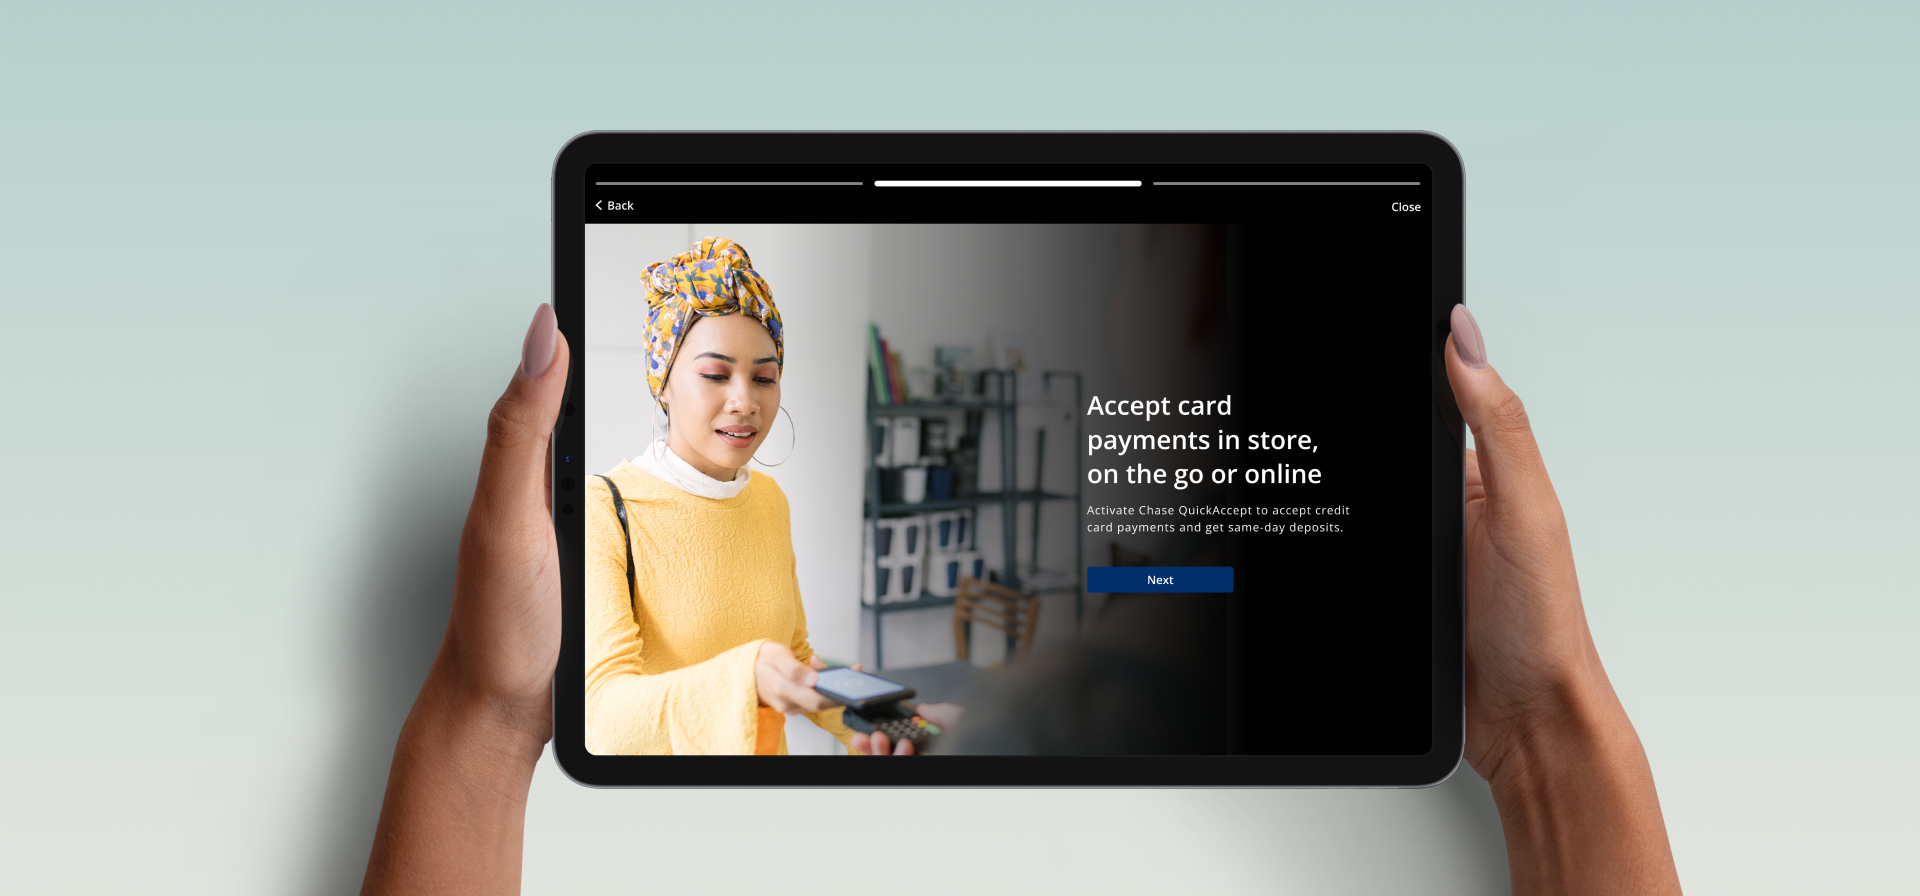
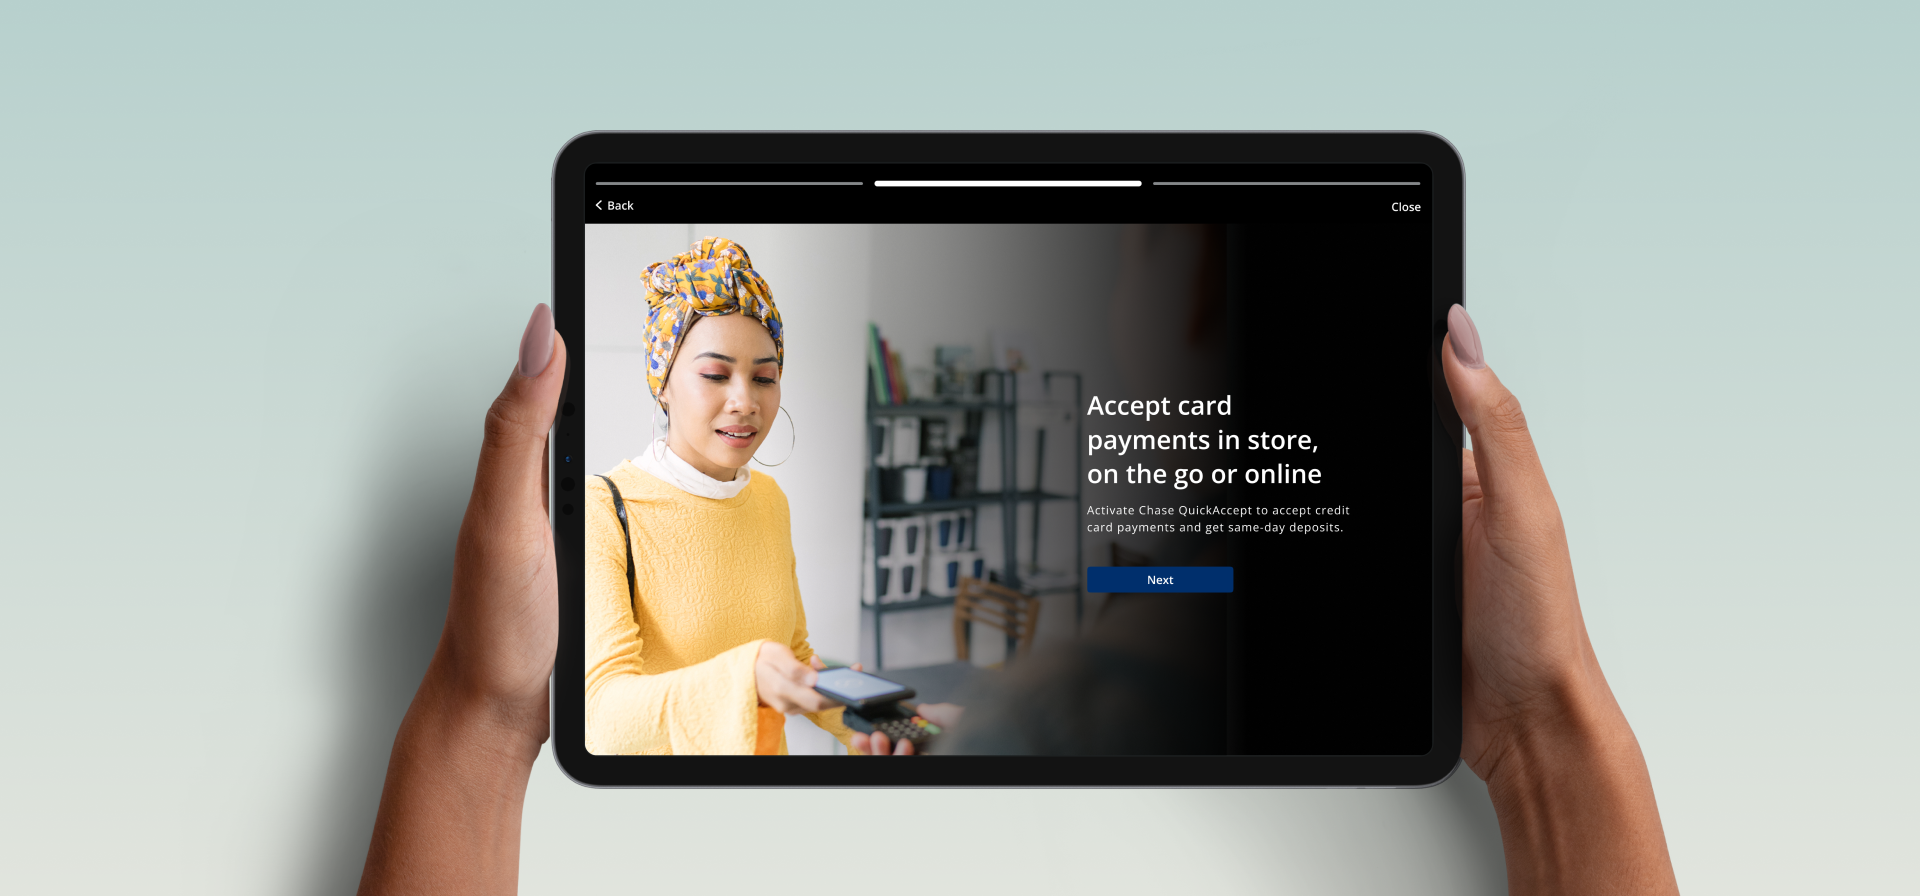
Reupload all Guided Activation onboarding images 01–08
Replace the full onboarding tile set and bust cache on every image.

diff --git a/js/main.js b/js/main.js
@@ -27,7 +27,7 @@ async function init() {
     return;
   }
 
-  const response = await fetch("./data/projects.json?v=onboarding-reupload-2");
+  const response = await fetch("./data/projects.json?v=onboarding-reupload-3");
   const data = await response.json();
 
   getPublishedSections(data.sections).forEach((section) => {
